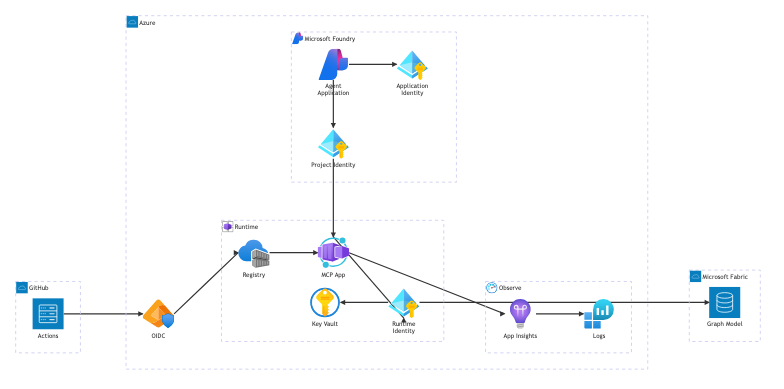
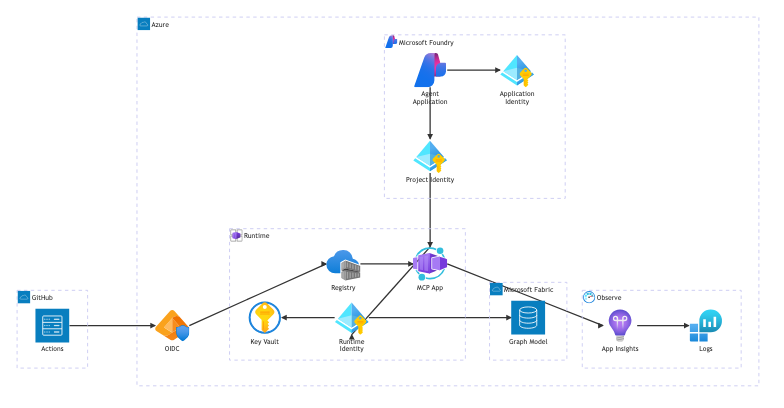
docs: sharpen enterprise memory story and diagrams

diff --git a/quickagenticmemory/README.md b/quickagenticmemory/README.md
@@ -1,16 +1,44 @@
 # Quick Agentic Memory
 
+![Quick Agentic Memory: one authoritative Markdown knowledge record, one rebuildable graph index, and governed agent access](docs/diagrams/system-context.png)
+
+[Read the architecture](docs/ARCHITECTURE.md)
+
 > **Experimental proof of concept:** implemented with separate local and fully parameterized Azure/Fabric/Foundry acceptance paths. The synthetic industrial showcase has passed the complete cloud path; deployment in another tenant remains an explicit, authorized operator action.
 
 This is my small workbench for turning architectural ideas into executable proofs—where the diagram ends and the test begins. The idea is simple: seeing is believing, but a result is only useful when it can be traced back to the exact knowledge that produced it.
 
 ## Why this proof exists
 
-In manufacturing, a seemingly simple question such as “What changes when this field component reaches end of life?” is usually a relationship problem. The answer can span delivered machine variants, electrical mappings, PLC diagnostic blocks, parameter sets, service/change records, and controlled FAT/SAT specifications. Missing one link can make an otherwise fluent answer incomplete.
+### Enterprise knowledge should compound
 
-A conventional RAG pipeline is strong at finding semantically similar text, but its chunk-retrieval stage does not automatically guarantee stable component identity, complete multi-hop impact coverage, lifecycle filtering, exclusion of near-name distractors, or source consistency across a changing repository. Quick Agentic Memory adds those controls as a graph-and-provenance layer; it does not claim that graphs universally replace RAG.
+As AI agents begin to support real engineering decisions, enterprises need to rethink how they organize knowledge—not only how they search it. The important question is: **what durable, reviewable knowledge asset becomes better after every source, correction, and question?** A useful answer should strengthen institutional memory instead of disappearing into another chat history.
 
-The synthetic public scenario makes the difference visible with `IOL-M8`: two delivered variants have distinct controlled impact chains, while `IOL-M8S` and superseded guidance are deliberate distractors. The experiment compares the lexical BM25 retrieval stage with bounded link traversal over the same Markdown and records what each method retrieved. It evaluates retrieval evidence, not LLM answer style.
+[Andrej Karpathy's sketch of a persistent, compounding wiki](https://gist.github.com/karpathy/442a6bf555914893e9891c11519de94f) points in that direction: an agent-maintained, interlinked body of ordinary `.md` files can accumulate synthesis and cross-references instead of reconstructing them from raw documents for every question. Quick Agentic Memory adapts the durable, interlinked knowledge pattern for a governed manufacturing read proof. Its current agent interface is strictly read-only; agent-assisted curation remains future work. It is an independent implementation, not a copy of the gist's code or exact architecture.
+
+This does not mean moving PLC projects, drawings, PLM records, MES transactions, or every other operational record into Markdown. Those systems remain authoritative in their domains. The `.md` files become a durable knowledge layer for the identities, decisions, explanations, relationships, and source references that connect them.
+
+### Why manufacturing exposes the gap
+
+In manufacturing, a seemingly simple question such as “What changes when this field component reaches end of life?” is usually a relationship problem. The answer can span delivered machine variants, electrical mappings, PLC diagnostic blocks, parameter sets, service and change records, and controlled FAT/SAT specifications. Missing one link can make an otherwise fluent answer incomplete.
+
+Search and RAG remain valuable for finding related text. Their retrieval stage alone does not guarantee stable component identity, complete multi-hop impact coverage, lifecycle filtering, exclusion of near-name distractors, or one consistent source revision. Quick Agentic Memory tests those additional controls as a graph-and-provenance layer; it does not claim that graphs universally replace RAG.
+
+The synthetic public scenario makes the difference visible with `IOL-M8`: two delivered variants have distinct controlled impact chains, while `IOL-M8S` and superseded guidance are deliberate distractors. The experiment compares the lexical BM25 retrieval stage with bounded link traversal over the same `.md` files and records what each method retrieved. It evaluates retrieval evidence, not LLM answer style.
+
+### One knowledge record, not competing stores
+
+Quick Agentic Memory does not ask anyone to maintain the same knowledge in GitHub and Fabric. There is one authored knowledge record and one generated navigation index:
+
+| Layer | Purpose | Authority |
+| --- | --- | --- |
+| Reviewed `.md` files in GitHub | Human-readable meaning, context, relationships, review, and version history | Authoritative knowledge record |
+| Microsoft Fabric Graph | Fast identity resolution and bounded relationship traversal generated from one Git commit | Derived, rebuildable index |
+| MCP gateway and Foundry Agent Application | Governed navigation followed by an exact-commit source read | Read-only consumers; they do not own the knowledge |
+
+Fabric stores projected identifiers, relationships, hashes, and commit provenance—not a second editable copy of the Markdown document bodies. The agent uses the graph to find a route, then returns to GitHub and hash-checks the original `.md` file at the same commit. **Markdown holds the knowledge; the graph only holds the routes through it.**
+
+At small scale, Git and linked `.md` files may be enough. Add a graph only when stable identity, bounded multi-hop navigation, governed agent access, or scale justifies a generated index. The architectural pattern is deliberately general: human-readable `.md` files use lightweight metadata and explicit links, while the projector is an adapter that can evolve independently of the knowledge record.
 
 ## Public evidence
 
@@ -18,23 +46,21 @@ The synthetic public scenario makes the difference visible with `IOL-M8`: two de
 
 The redacted cloud proof shows the tested chain from one public Git commit through Fabric Graph, the Entra-protected MCP gateway, and the Foundry Agent Application. It records 28 source documents, 107 graph nodes, 167 edges, live boundary checks, and the four ordered agent tool events. The [evidence gallery](tests/industrial-component-obsolescence/screens/) also contains the local retrieval comparison, public GitHub source view, Foundry smoke trace, checksums, and a machine-readable redacted cloud receipt.
 
-One design influence is [Andrej Karpathy's sketch of a persistent, compounding wiki](https://gist.github.com/karpathy/442a6bf555914893e9891c11519de94f). This repository independently tests that general idea with Git-reviewed Markdown, deterministic projections, and bounded agent retrieval; it does not copy implementation code from the gist.
+Quick Agentic Memory makes linked `.md` files in GitHub navigable and exposes them to agents through a constrained MCP interface:
 
-Quick Agentic Memory turns OKF v0.2 Markdown in GitHub into a navigable graph and exposes it to agents through a constrained MCP interface:
-
-- GitHub is the reviewed, versioned source of truth.
-- The OKF Validator checks the portable Markdown bundle.
+- GitHub contains the reviewed, versioned knowledge record.
+- A validator checks the lightweight metadata, structure, and explicit links required for projection.
 - The Fabric Graph Projector creates a deterministic, commit-pinned snapshot that must satisfy the canonical `qam-graph/1.0` executable contract.
-- Microsoft Fabric Graph is a rebuildable navigation index.
-- The Wiki MCP Gateway gives a published Microsoft Foundry Agent Application exactly seven bounded read-only tools for graph navigation and selected source retrieval.
+- Microsoft Fabric Graph stores the rebuildable navigation index, not the Markdown document bodies.
+- The Wiki MCP Gateway gives a published Microsoft Foundry Agent Application exactly seven bounded read-only tools for graph navigation and exact-commit source retrieval.
 
-The implementation deliberately calls the projection component **Fabric Graph Projector**, not “OKF Graph Compiler”: OKF remains ordinary Markdown and the graph is only one disposable representation of it.
+The projection component is deliberately called **Fabric Graph Projector**: it creates a disposable read model and never turns the graph into a second source of truth.
 
 ## Repository map
 
 | Path | Purpose |
 | --- | --- |
-| [`knowledge/`](knowledge/) | Small OKF v0.2 bundle used by the complete local test. |
+| [`knowledge/`](knowledge/) | Small linked `.md` knowledge set used by the complete local test. |
 | [`contracts/`](contracts/) | Canonical executable `qam-graph/1.0` contract shared by projection, Fabric decoding, and MCP retrieval. |
 | [`packages/core/`](packages/core/) | Validator, deterministic projector, manifest, and CLI. |
 | [`packages/mcp/`](packages/mcp/) | Read-only MCP gateway with local and cloud adapter boundaries. |
@@ -188,7 +214,7 @@ For the complete permission checklist, resource-provider registration, resumable
 
 ## How the cloud proof works
 
-The live path is intentionally staged: deploy the foundation and isolated identities first; explicitly deploy the Fabric/Foundry platform; publish one approved commit to Fabric; configure GitHub source access and the Foundry project's system-assigned managed identity; then deploy the allowlisted Container App and attach the MCP-enabled Agent Application version. The application image is built inside ACR from that exact public Git URL and full commit SHA, so the reproducible cloud path needs no local Docker daemon; its checked-in helper waits for a terminal run, locks the output digest, and emits a source-bound JSON receipt. The Agent Application keeps a distinct identity for publication and invocation, while the secretless `ProjectManagedIdentity` RemoteTool connection uses the project identity for outbound MCP calls. OneLake publication uses a unique temporary directory, read-back byte and SHA-256 verification, and an atomic no-replace rename. The repository also creates the Fabric Workspace, Lakehouse, Graph Model, and Notebook through public APIs, generates the canonical Graph definition from the checked-in contract, and completes the official on-demand `RefreshGraph` job before accepting GQL evidence.
+The live path is intentionally staged: deploy the foundation and isolated identities first; explicitly deploy the Fabric/Foundry platform; publish the graph projection generated from one approved commit to Fabric; configure GitHub source access and the Foundry project's system-assigned managed identity; then deploy the allowlisted Container App and attach the MCP-enabled Agent Application version. The application image is built inside ACR from that exact public Git URL and full commit SHA, so the reproducible cloud path needs no local Docker daemon; its checked-in helper waits for a terminal run, locks the output digest, and emits a source-bound JSON receipt. The Agent Application keeps a distinct identity for publication and invocation, while the secretless `ProjectManagedIdentity` RemoteTool connection uses the project identity for outbound MCP calls. OneLake publication uses a unique temporary directory, read-back byte and SHA-256 verification, and an atomic no-replace rename. The repository also creates the Fabric Workspace, Lakehouse, Graph Model, and Notebook through public APIs, generates the canonical Graph definition from the checked-in contract, and completes the official on-demand `RefreshGraph` job before accepting GQL evidence.
 
 Nothing in `npm run verify` or `npm run demo` creates cloud resources. Azure deployment, role assignment, secret configuration, Fabric publication, and live smoke tests are separate operator actions and require explicit authorization. `scripts/deploy-industrial-platform.sh` provides an idempotent tenant-neutral deployment-and-smoke path without making what-if mandatory; `scripts/publish-industrial-fabric.sh` applies the clean commit-pinned data plane. The public [cloud evidence](tests/industrial-component-obsolescence/screens/) records the successful redacted acceptance outcome. See also the [industrial scenario](tests/industrial-component-obsolescence/README.md), [infrastructure guide](infra/README.md), and [Foundry guide](agents/foundry/README.md).
 

diff --git a/README.md b/README.md
@@ -1,20 +1,33 @@
 # Where the Diagram Ends
 
-> My little corner of the web for turning architectural ideas into working proofs of concept—because seeing is believing.
+> **Architecture is not proven by a diagram. It is proven when the idea runs, the evidence is visible, and somebody else can reproduce it.**
+
+[Explore the Quick Agentic Memory architecture](./quickagenticmemory/docs/ARCHITECTURE.md)
 
 **Where the Diagram Ends** is my personal collection of small experiments that take architecture beyond diagrams. Each project turns an idea into something tangible, runnable, and testable: a proof that shows whether the idea actually works.
 
-The first proof is now implemented and has passed a complete Azure cloud acceptance run.
+I work in manufacturing across several customer environments, and that experience shapes the questions I explore here. I do not reproduce or name those environments. Instead, I turn recurring patterns into independent proofs using synthetic data, so an idea can be challenged in public without exposing customer information.
 
-## Why the first proof is about manufacturing
+> [!IMPORTANT]
+> **Independent project and responsibility notice:** This is my personal, unofficial repository. It is not an official repository of any employer, customer, or vendor, and it is not endorsed or supported by them. Review the code, permissions, security settings, and resource lifecycle before use. Deploying the examples can create billable cloud resources. You are responsible for your own deployment, usage, charges, and results; use this repository at your own risk.
+
+## The first proof: manufacturing knowledge that compounds
+
+Enterprise AI needs a conversation that starts before model selection: **what durable, reviewable knowledge should become better after every source, correction, and question?** Making scattered documents searchable is useful, but it does not automatically create institutional memory.
+
+[Andrej Karpathy's persistent, compounding wiki](https://gist.github.com/karpathy/442a6bf555914893e9891c11519de94f) suggests a compelling direction: let agents help maintain an interlinked body of ordinary `.md` files, so useful synthesis and cross-references accumulate instead of disappearing into chats. This first proof takes one governed step in that direction: reviewed files, a rebuildable navigation index, and a strictly read-only agent interface. Agent-assisted curation remains future work.
+
+This is not a proposal to replace PLC projects, drawings, PLM records, MES transactions, or other operational systems with Markdown. Those systems remain authoritative in their domains. The `.md` files form a human-readable knowledge layer for the identities, decisions, explanations, relationships, and source references that connect them.
 
 Manufacturing knowledge rarely lives in one paragraph. A component change can affect delivered machine variants, I/O mappings, PLC diagnostics, parameter sets, service records, and FAT/SAT specifications. A text-similarity retrieval stage can find content that sounds relevant while still missing part of that controlled chain, mixing a similarly named component into the result, or losing the exact source revision. This PoC tests a lexical BM25 retrieval baseline, not a complete RAG stack or generated-answer quality.
 
-Quick Agentic Memory tests a complementary approach: keep reviewed Markdown in GitHub as the source of truth, project explicit relationships into Fabric Graph, let an agent traverse only bounded read-only paths, and reread the selected source at the same Git commit. The goal is not to replace RAG everywhere; it is to show where identity, relationships, lifecycle state, exclusions, and provenance matter as much as semantic similarity.
+Quick Agentic Memory tests a complementary approach: keep reviewed `.md` files in GitHub as the authoritative knowledge record, generate a relationship index in Fabric Graph, let an agent traverse only bounded read-only paths, and reread the selected source at the same Git commit. No document is maintained twice: **Markdown holds the knowledge; the graph only holds the routes through it.** The goal is not to replace RAG everywhere, but to show where identity, relationships, lifecycle state, exclusions, and provenance matter as much as semantic similarity.
+
+The first proof is implemented and has passed a complete Azure cloud acceptance run.
 
 ## Proofs of concept
 
-- [Quick Agentic Memory](./quickagenticmemory/) — A graph-first memory proof that connects public, commit-pinned Markdown in GitHub with Microsoft Fabric Graph, an Entra-protected MCP gateway, and a Microsoft Foundry Agent Application. See the [redacted cloud evidence](./quickagenticmemory/tests/industrial-component-obsolescence/screens/).
+- [Quick Agentic Memory](./quickagenticmemory/) — A governed-memory proof that connects public, commit-pinned `.md` files in GitHub with a rebuildable Microsoft Fabric Graph index, an Entra-protected MCP gateway, and a Microsoft Foundry Agent Application. See [why the proof exists](./quickagenticmemory/#why-this-proof-exists) and the [redacted cloud evidence](./quickagenticmemory/tests/industrial-component-obsolescence/screens/).
 
 ## How to install
 

diff --git a/quickagenticmemory/docs/ARCHITECTURE.md b/quickagenticmemory/docs/ARCHITECTURE.md
@@ -7,8 +7,8 @@ This proof of concept uses these names deliberately:
 | Component | Responsibility |
 | --- | --- |
 | Wiki Curator | Future proposal workflow inspired by persistent, compounding wikis. It must open a reviewable change; it never writes to the protected branch directly. |
-| OKF Validator | Parses and validates the human-readable OKF v0.2 Markdown bundle. |
-| Fabric Graph Projector | Deterministically maps concepts, links, tags, aliases, and sources into nodes and edges. This is not called an “OKF Graph Compiler” because OKF remains portable Markdown and the graph is only one projection. |
+| Markdown Validator | Parses and validates the human-readable `.md` files, lightweight metadata, and explicit links used by the reference implementation. |
+| Fabric Graph Projector | Deterministically maps concepts, links, tags, aliases, and sources into nodes and edges. The graph is a generated projection, not a second knowledge record. |
 | Wiki MCP Gateway | Gives agents bounded graph-navigation and commit-pinned content tools. |
 
 ## Inspiration and independent scope
@@ -25,7 +25,7 @@ Invalid or oversized values fail closed rather than being truncated into a diffe
 
 ![Quick Agentic Memory system context](diagrams/system-context.png)
 
-1. A GitHub workflow checks out an exact commit and validates the OKF bundle.
+1. A GitHub workflow checks out an exact commit and validates the linked `.md` knowledge set.
 2. The projector creates a deterministic `qam-graph/1.0` snapshot, manifest, and flat `QamNode`/`QamEdge` NDJSON tables containing that source commit.
 3. Publication writes both NDJSON files below a unique OneLake temporary directory, reads them back, verifies exact byte counts and SHA-256 hashes, and atomically renames the complete directory without replacing an existing target. A pre-existing target is accepted only when both files are byte-identical.
 4. A Fabric notebook validates the immutable pair and writes the `QamNode` and `QamEdge` Delta tables. The publisher applies the canonical GraphModel definition, starts the official on-demand `RefreshGraph` job only after both writes succeed, and polls its exact Core job instance to a successful terminal state before GQL acceptance.
@@ -64,7 +64,7 @@ Microsoft Foundry's MCP integration, MCP authentication guidance, and Container 
 The editable diagram sources are [system-context.mmd](diagrams/system-context.mmd) and [azure-deployment.mmd](diagrams/azure-deployment.mmd). Re-render either one with:
 
 ```bash
-npx --yes @mermaid-js/mermaid-cli@11.10.1 \
+npx --yes @mermaid-js/mermaid-cli@11.16.0 \
   -i diagram.mmd \
   -o diagram.png \
   --iconPacksNamesAndUrls "azure#https://raw.githubusercontent.com/NakayamaKento/AzureIcons/refs/heads/main/icons.json" \

diff --git a/quickagenticmemory/tests/industrial-component-obsolescence/code/README.md b/quickagenticmemory/tests/industrial-component-obsolescence/code/README.md
@@ -3,7 +3,7 @@
 This directory contains a deterministic **retrieval evaluation**, not an LLM answer grader. It compares two arms over exactly the same Markdown snapshot:
 
 - **Arm A — local BM25 lexical retrieval:** Markdown is split into bounded sections, concept metadata is attached to every chunk, and BM25 ranks the chunks. The best chunk per concept is retained, the focus concept is removed, and only then is the concept budget applied. There are no embeddings, reranker, generation model, or fabricated semantic/hallucination scores.
-- **Arm B — Quick Agentic Memory:** the existing QAM Core projects the OKF bundle, and the existing MCP adapters perform alias resolution, backlinks, bounded neighbor traversal, path finding, provenance tracing, and content-hash-checked reads at one Git commit.
+- **Arm B — Quick Agentic Memory:** the existing QAM Core projects the linked `.md` knowledge set, and the existing MCP adapters perform alias resolution, backlinks, bounded neighbor traversal, path finding, provenance tracing, and content-hash-checked reads at one Git commit.
 
 Both arms use the question's `top_k` as a concept output budget after resolving/removing the focus concept. Both receive the same visible query-derived terms, lifecycle filter, and result-type scope. Arm A still reports its supporting best chunk for auditability.
 
@@ -13,7 +13,7 @@ Both arms use the question's `top_k` as a concept output budget after resolving/
 ../data/
 ├── knowledge/
 │   ├── index.md
-│   └── ... valid OKF 0.2 Markdown concepts
+│   └── ... valid linked .md concepts with lightweight metadata
 ├── gold/
 │   └── gold.json
 └── questions/
@@ -156,7 +156,7 @@ npm --prefix ../../.. ci
 npm test
 ```
 
-The tests use a temporary synthetic OKF bundle and cover deterministic BM25 ranking, exact alias resolution versus the `IOL-M8S` distractor, gold-list metrics, deprecated-status filtering, required paths, schema versions, content-hash-checked reads, and commit consistency.
+The tests use a temporary synthetic linked `.md` knowledge set and cover deterministic BM25 ranking, exact alias resolution versus the `IOL-M8S` distractor, gold-list metrics, deprecated-status filtering, required paths, schema versions, content-hash-checked reads, and commit consistency.
 
 ## Interpretation limits
 

diff --git a/quickagenticmemory/docs/TESTING.md b/quickagenticmemory/docs/TESTING.md
@@ -5,7 +5,7 @@ The proof is split into layers so a passing local demo has a precise meaning and
 | Layer | What it proves | Default command |
 | --- | --- | --- |
 | Graph contract tests | The canonical `qam-graph/1.0` source and both generated package copies are byte-identical; field limits, provenance agreement, uniqueness, and edge references fail closed. | `node scripts/sync-graph-contract.mjs --check` and package tests |
-| Core unit tests | OKF parsing, permissive conformance, link resolution, stable IDs, deterministic projection, contract validation, and flat Fabric exports. | `npm run test --workspace @quick-agentic-memory/core` |
+| Core unit tests | Markdown and frontmatter parsing, reference-profile conformance, link resolution, stable IDs, deterministic projection, contract validation, and flat Fabric exports. | `npm run test --workspace @quick-agentic-memory/core` |
 | MCP unit tests | Canonical schemas, pagination, traversal, provenance, path confinement, bounded Fabric decoding, GitHub authentication, adapter errors, and disabled writes. | `npm run test --workspace @where-the-diagram-ends/quick-agentic-memory-mcp` |
 | MCP integration tests | Real stdio and Streamable HTTP handshakes, the exact seven-tool surface, authentication, host/origin checks, Core-to-MCP contract compatibility, and health behavior. | Included in `npm run verify` |
 | Local end to end | The sample wiki is validated, projected, served, traversed, and read back at the projected Git commit. | `npm run demo` |
@@ -43,7 +43,7 @@ The automated suite must cover these boundaries, not only happy-path retrieval:
 
 `npm run verify && npm run demo` is the local runtime gate. It must finish without modifying GitHub, Azure, Fabric, or Foundry and must demonstrate:
 
-1. zero OKF validation errors and warnings for the fixture;
+1. zero Markdown knowledge-set validation errors and warnings for the fixture;
 2. byte-stable graph, manifest, node-table, and edge-table output for identical inputs and metadata;
 3. an MCP client can discover the read tools;
 4. the client can resolve a concept, traverse at least one multi-hop path, inspect backlinks/provenance, and read the corresponding Markdown;

diff --git a/quickagenticmemory/tests/industrial-component-obsolescence/data/README.md b/quickagenticmemory/tests/industrial-component-obsolescence/data/README.md
@@ -4,7 +4,7 @@ This directory contains the complete synthetic dataset for the industrial compon
 
 | Path | Contents |
 | --- | --- |
-| [`knowledge/`](knowledge/) | OKF Markdown source of truth: components, machine families and variants, I/O mappings, PLC blocks, parameter sets, change/service records, and FAT/SAT specifications. |
+| [`knowledge/`](knowledge/) | Linked `.md` knowledge record: components, machine families and variants, I/O mappings, PLC blocks, parameter sets, change/service records, and FAT/SAT specifications. |
 | [`questions/questions.json`](questions/questions.json) | Eight versioned retrieval questions with query-derived terms, status filters, concept-level top-k budgets, and maximum hop counts. |
 | [`gold/gold.json`](gold/gold.json) | Human-authored required concepts, exclusions, states, and bounded `LINKS_TO` paths used only for scoring after retrieval. |
 

diff --git a/quickagenticmemory/tests/industrial-component-obsolescence/README.md b/quickagenticmemory/tests/industrial-component-obsolescence/README.md
@@ -16,7 +16,7 @@ The point is not that graphs universally beat RAG. The test isolates a situation
 | Path | Purpose |
 | --- | --- |
 | [`code/`](code/) | Deterministic BM25/QAM runner, contracts, tests, and the offline evidence report generator. |
-| [`data/`](data/) | Synthetic OKF knowledge, evaluation questions, and human-authored gold truth. |
+| [`data/`](data/) | Synthetic linked `.md` knowledge, evaluation questions, and human-authored gold truth. |
 | [`screens/`](screens/) | Presentation screenshots plus machine-readable, non-secret evidence from clean local and authorized cloud runs. |
 
 ## Industrial question

diff --git a/quickagenticmemory/knowledge/concepts/fabric-graph-index.md b/quickagenticmemory/knowledge/concepts/fabric-graph-index.md
@@ -16,7 +16,7 @@ sources:
 
 # Purpose
 
-The projector turns OKF concepts, links, tags, aliases, and provenance into a deterministic graph snapshot.[^fabric-graph-docs]
+The projector turns linked `.md` concepts, links, tags, aliases, and provenance into a deterministic graph snapshot.[^fabric-graph-docs]
 
 It reads the [GitHub enterprise memory](/concepts/github-enterprise-memory.md) and is queried only through the [Wiki MCP gateway](/concepts/wiki-mcp-gateway.md). Because it is derived, it can be deleted and rebuilt without losing knowledge.
 

diff --git a/quickagenticmemory/knowledge/index.md b/quickagenticmemory/knowledge/index.md
@@ -4,7 +4,7 @@ okf_version: "0.2"
 
 # Quick Agentic Memory knowledge bundle
 
-This deliberately small OKF bundle is the end-to-end test fixture for the proof of concept.
+This deliberately small linked `.md` knowledge set is the end-to-end test fixture for the proof of concept.
 
 ## Architecture
 

diff --git a/quickagenticmemory/knowledge/log.md b/quickagenticmemory/knowledge/log.md
@@ -2,4 +2,4 @@
 
 ## 2026-08-22
 
-* **Initialization**: Added the minimal OKF v0.2 bundle used by the validator, projector, and MCP integration tests.
+* **Initialization**: Added the minimal linked `.md` knowledge set used by the validator, projector, and MCP integration tests.
